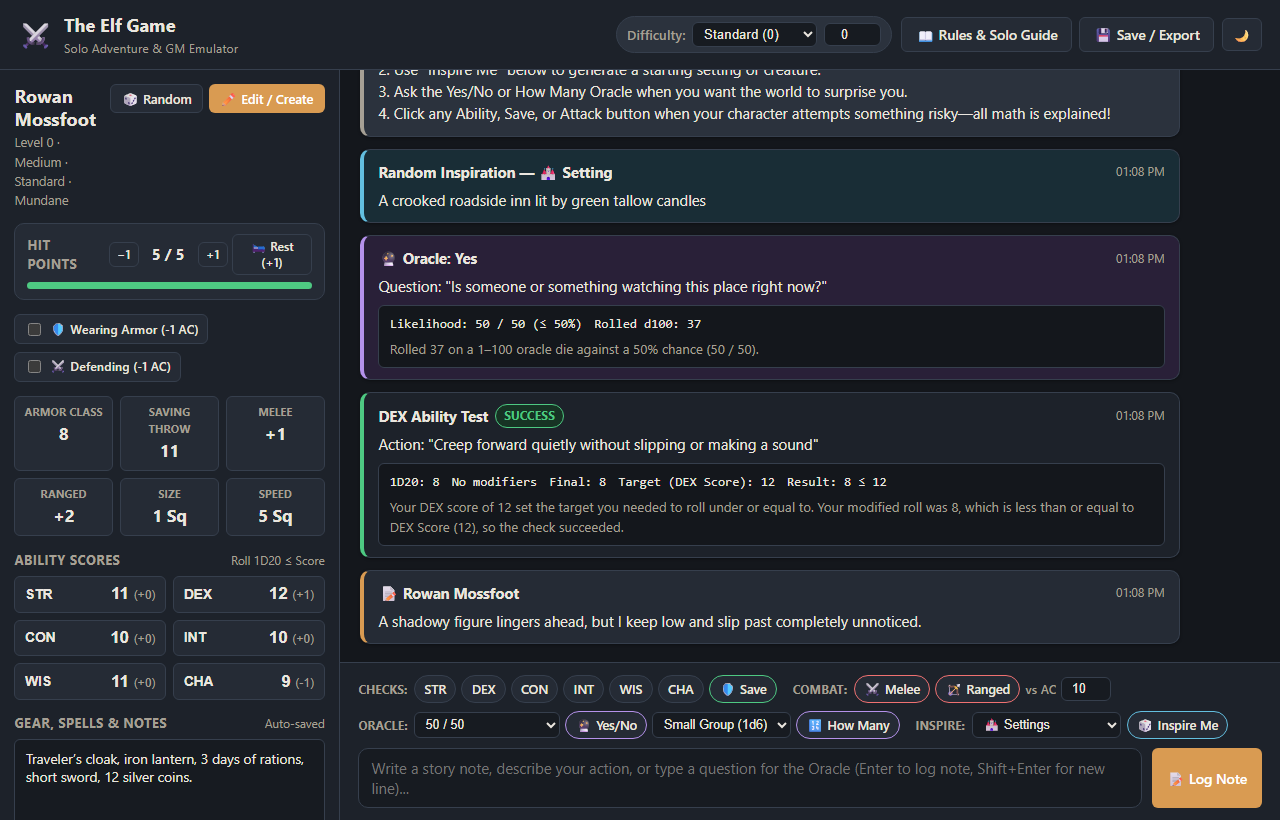
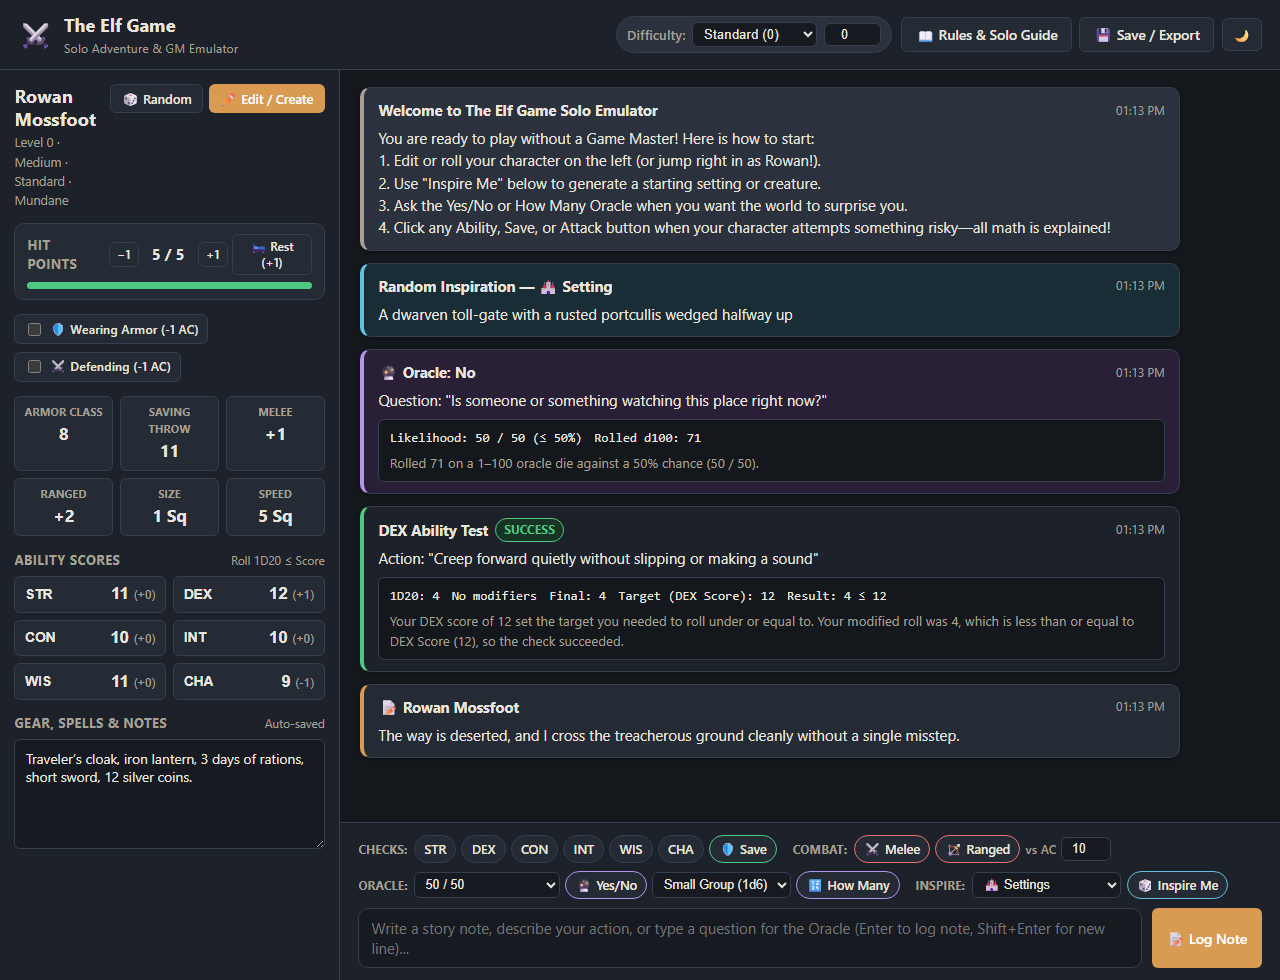
Add full-view screenshots for all screens in light and dark modes

diff --git a/README.md b/README.md
@@ -6,23 +6,47 @@ A single-player browser game & Game Master emulator for **The Elf Game** (by S&A
 
 ## Screenshots
 
-### Main Adventure Workspace — Light Mode vs Dark Mode
+### 1. Main Adventure Workspace — Light Mode vs Dark Mode
 
 | Light Mode | Dark Mode |
 | :---: | :---: |
 | ![Main Adventure Workspace in Light Mode](screenshots/main-light.png) | ![Main Adventure Workspace in Dark Mode](screenshots/main-dark.png) |
 
-### Character Creator & Step-by-Step Randomizer
+---
+
+### 2. Character Creator & Step-by-Step Randomizer (Full View)
+
+#### Light Mode
+| Top (Randomizer Summary & Character Details) | Bottom (Armor, Abilities & Save) |
+| :---: | :---: |
+| ![Character Creator Light Top](screenshots/character-creator-light-top.png) | ![Character Creator Light Bottom](screenshots/character-creator-light-bottom.png) |
+
+#### Dark Mode
+| Top (Randomizer Summary & Character Details) | Bottom (Armor, Abilities & Save) |
+| :---: | :---: |
+| ![Character Creator Dark Top](screenshots/character-creator-dark-top.png) | ![Character Creator Dark Bottom](screenshots/character-creator-dark-bottom.png) |
+
+---
+
+### 3. Rules & Solo Guide (Full View)
+
+#### Light Mode
+| Top (Core Solo Loop & Roll-Under Rules) | Bottom (Classes, Stances & Slash Commands) |
+| :---: | :---: |
+| ![Rules Guide Light Top](screenshots/rules-guide-light-top.png) | ![Rules Guide Light Bottom](screenshots/rules-guide-light-bottom.png) |
+
+#### Dark Mode
+| Top (Core Solo Loop & Roll-Under Rules) | Bottom (Classes, Stances & Slash Commands) |
+| :---: | :---: |
+| ![Rules Guide Dark Top](screenshots/rules-guide-dark-top.png) | ![Rules Guide Dark Bottom](screenshots/rules-guide-dark-bottom.png) |
+
+---
+
+### 4. Save, Export & Import — Light Mode vs Dark Mode
 
 | Light Mode | Dark Mode |
 | :---: | :---: |
-| ![Character Creator and Randomizer in Light Mode](screenshots/character-creator-light.png) | ![Character Creator and Randomizer in Dark Mode](screenshots/character-creator-dark.png) |
-
-### Rules & Solo Guide / Save, Export & Import
-
-| Rules & Solo Guide (Light Mode) | Save, Export & Import (Dark Mode) |
-| :---: | :---: |
-| ![Rules and Solo Guide Modal](screenshots/rules-guide-light.png) | ![Save, Export and Import Modal](screenshots/save-export-dark.png) |
+| ![Save, Export and Import Light Mode](screenshots/save-export-light.png) | ![Save, Export and Import Dark Mode](screenshots/save-export-dark.png) |
 
 ---
 
